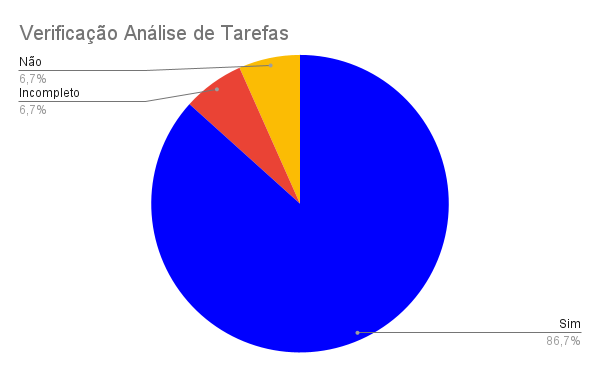
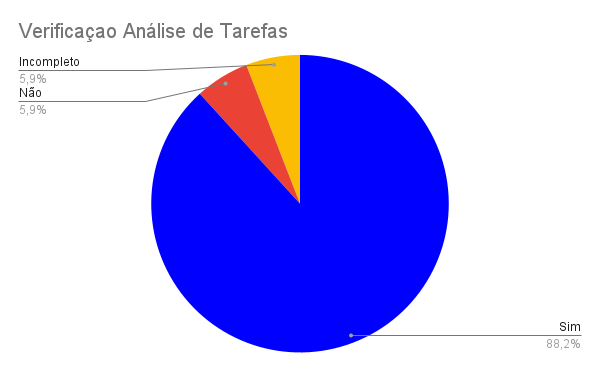
Refactor: Adição de alguns elementos e correção de outros.

diff --git a/docs/Verificacao/OpenStreetMap/Entrega2/analise_tarefas.md b/docs/Verificacao/OpenStreetMap/Entrega2/analise_tarefas.md
@@ -13,7 +13,7 @@ Como método de investigação e produção da verificação, utilizaremos a ins
 Durante as aulas das disciplinas de Interação Humano Computador, ministrada pelo professor André Barros, existiu uma atividade de se realizar a verificação dos artefatos de outro grupo, onde o grupo 3 ([Banco Central](https://interacao-humano-computador.github.io/2023.1-BancoCentral/#/)) fez a verificação dos artefatos do grupo 04, onde essa verificação será levada em conta, onde será considerado se algum ponto mencionado faz sentido está presente no checklist, sempre levanto em conta a literatura de referência da disciplina.
 
 ## Checklist
-Os checklists foram estabelecidos com base nos critérios da literatura o livro interação humano computador[4] e os pontos apontados pelo grupo 3, do [Banco Central](https://interacao-humano-computador.github.io/2023.1-BancoCentral/#/), contendo também algumas perguntas básicas para avaliar a padronização, todas sendo presentes na tabela 1 já preenchida.
+Os checklists foram estabelecidos com base nos critérios da literatura o livro interação humano computador[4] e os pontos apontados pelo grupo 3, do [Banco Central](https://interacao-humano-computador.github.io/2023.1-BancoCentral/#/), contendo também algumas perguntas básicas para avaliar a padronização, sendo apresentados na tabela 1 as questões mais gerais, e na tabela 2 e 3 questões específicas dos métodos escolhidos, todas já devidamente preenchidas.
 
 <center>
 
@@ -23,45 +23,99 @@ Os checklists foram estabelecidos com base nos critérios da literatura o livro 
 | 2 | Todas as bibliografias/referências bibliográficas são utilizadas de forma correta? | Sim ||
 | 3 | Todas as tabelas e figuras são chamadas no texto, possuem legendas e fontes? | Sim ||
 | 4 | A metodologia está de acordo com o artefato analisado? | Sim ||
-| 5 | Existe um documento sobre a análise de tarefas? | Sim ||
-| 6 | Ele conta com mais de uma maneira de realizar a análise? | Sim ||
-| 7 | Cada maneira está devidamente representada? | Sim ||
-| 8 | Cada maneira é explicada como funciona? | Sim ||
-| 9 | É explicado o processo de produção dessas análises? | Sim ||
-| 10 | As tarefas analisadas correspondem as tarefas principais do usuário? | Sim ||
-| 11 | Foram definidas essas tarefas com base nas que foram apresentadas no perfil de usuário? | Incompleto | Há tarefas baseadas nos cenários. |
-| 12 | Todas as tarefas possuem um objetivo? | Sim ||
-| 13 | É detalhado o processo da tarefa? | Sim ||
-| 14 | As tarefas possuem objetivo, plano e operação? | Sim ||
-| 15 | É demostrado como as tarefas serão usadas no projeto? | Não ||
+| 5 | As tarefas analisadas correspondem as tarefas principais do usuário?<a href="#1">¹</a> | Sim ||
+| 6 | Todas as tarefas possuem um objetivo?<a href="#2">²</a> | Sim ||
+| 7 | É detalhado o processo da tarefa?<a href="#3">³</a> | Sim ||
+| 8 | É demostrado como essa análise sera útil para o desenvolvimento do projeto? | Não ||
 
-<p>Tabela 1 - Checklist da Análise de Tarefas. (Fonte: Autor)</p>
+<p>Tabela 1 - Checklist da Análise de Tarefas Geral. (Fonte: Autor)</p>
 
 </center>
 
+<div id="1"></div> 
+¹ - Aquelas que eles mais realizam apresentadas no perfíl de usuário.
+<div id="2"></div> 
+² - Algo a ser alcançado com sua execução.
+<div id="3"></div> 
+³ - Todas as partes que envolver alcançar o objetivo.
+
+<center>
+
+| ID | Descrição | Avaliação | Observação |
+|:--:|---|:-:|---|
+| 9 | Existe o diagrama visual representando a tarefa, tendo os elementos corretamente identificados como demostrado na <a href="#4">figura 1</a>? | Sim ||
+| 10 | O plano para a realização dessa tarefa apresenta todos os subobjetivos necessários para alcançá-la? | Sim ||
+| 11 | O plano apresenta a ordem correta de como os subobjetivos devem ser alcançados?<a href="#5">⁴</a> | Sim ||
+| 12 | Existe a representação das relações entre os subobjetivos que compõem o plano demostrado na <a href="#4">figura 1</a>? | Sim ||
+| 13 | Estão presentes as operações para alcançar os subobjetivos?<a href="#6">⁵</a> | Sim ||
+
+<p>Tabela 2 - Checklist da Análise Hierárquica de Tarefas. (Fonte: Autor)</p>
+
+</center>
+
+<div id="4"></div>
+
+<center>
+
+![](../assets/img/HTA.png)
+
+Figura 1 - Elementos da Análise Hierárquica de Tarefas. (Fonte: Livro Interação Humano Computador[1]())
+
+
+</center>
+
+<div id="5"></div>
+⁴ - A ordem a qual a tarefa é realmente executada.
+<div id="6"></div> 
+⁵ - São circunstâncias de ativação do objetivo (input ou entrada), atividades ou ações (actions) para alcançá-lo e condições que indicam seu atingimento (feedback).
+
+<center>
+
+| ID | Descrição | Avaliação | Observação |
+|:--:|---|:-:|---|
+| 14 | O GMOS apresenta os elementos descritos no Livro Interação Humano Computador[4]()?<a href="#7">⁶</a> | Incompleto | Alguns elementos não são observados no GMOS |
+| 15 | É apresentado uma ordem sequencial?<a href="#8">⁷</a> | Sim ||
+| 16 | Existem os Objetivos e Subobjetivos? | Sim ||
+| 17 | Os operadores fazem sentido?<a href="#7">⁶</a>| Sim ||
+
+<p>Tabela 3 - CMN - GOMS. (Fonte: Autor)</p>
+
+</center>
+
+<div id="7"></div>
+⁶ - São eles:
+
+* Objetivos: O que o usuário quer realizar com o software.
+* Operadores: Ações concretas que o software permite que o usuário faça.
+* Métodos: Sequências de subobjetivos e operadores que permitem atingir um objetivo maior.
+* Regras de Seleção: Quando há mais de um método deve se ter regras de seleção, que são as tomadas de decisão do usuário sobre qual método utilizar em cada situação.
+
+<div id="8"></div>
+⁷ - Sua elaboração está em uma ordem que faz sentido para a realização da tarefa.
+
 ## Gráfico
-Com base no checklist feito no processo de inspeção da Análise de Tarefas, foi produzido o gráfico de avaliação do artefato, que pode ser visualizado/analisado na Figura 1.
+Com base no checklist feito no processo de inspeção da Análise de Tarefas, foi produzido o gráfico de avaliação do artefato, que pode ser visualizado/analisado na Figura 2.
 
 <center>
 
 ![](../assets/img/grafico_analise.png)
 
-Figura 1 - Gráfico Análise de Tarefas. (Fonte: Autor)
+Figura 2 - Gráfico Análise de Tarefas. (Fonte: Autor)
 
 </center>
 
 ## Correções
-O planejamento e a situação da correção dos artefatos da Análise de Tarefas será registrado na Tabela 2.
+O planejamento e a situação da correção dos artefatos da Análise de Tarefas será registrado na Tabela 4.
 
 <center>
 
 | ID | Descrição resumida| Detalhes da correção| Responsável pela correção | Revisor | Status |
 |:--:|------|------|:---------:|:---:|:--:|
-| 11 | Para algumas foi baseado nos cenários, o que pode distorcer um pouco as tarefas | Refazer essas tarefas se baseando unicamente no perfil de usuário e em suas tarefas primárias | [Daniel](https://github.com/daniel-de-sousa) | [Guilherme](https://github.com/guilhermekishimoto) | - |
-| 15 | Não é dito como elas serão usadas no projeto | Explicar a sua utilização. | [Daniel](https://github.com/daniel-de-sousa) | [Guilherme](https://github.com/guilhermekishimoto) | OK |
+| 08 | Não é dito como elas serão usadas no projeto | Explicar a sua utilização. | [Daniel](https://github.com/daniel-de-sousa) | [Guilherme](https://github.com/guilhermekishimoto) | OK |
+| 08 | O GMOS não apresenta todos os elementos | Refazer as tarefas com GMOS | [Raquel](https://github.com/raqueleucaria) | [Daniel](https://github.com/daniel-de-sousa) | - |
 
 
-<p>Tabela 2 - Distribuição da Correção do Artefato (Fonte: Autor)</p>
+<p>Tabela 4 - Distribuição da Correção do Artefato (Fonte: Autor)</p>
 </center>
 
 
@@ -70,9 +124,9 @@ Depois das correções se foi verificado novamente, e o resultado pode ser visto
 
 <center>
 
-![](../assets/img/grafico_analise_correcao.png)
+![](../assets/img/grafico_analise_corre.png)
 
-<p>Figura 2 - Gráfico da Análise de Tarefas com Correções. (Fonte: Autor)</p>
+<p>Figura 3 - Gráfico da Análise de Tarefas com Correções. (Fonte: Autor)</p>
 
 </center>
 
@@ -100,3 +154,4 @@ Depois das correções se foi verificado novamente, e o resultado pode ser visto
 |    Data    | Data Prevista de Revisão | Versão |      Descrição       |                                 Autor                                  |               Revisor               |
 | :--------: | :----------------------: | :----: | :------------------: | :--------------------------------------------------------------------: | :---------------------------------: |
 | 19/06/2023 |        19/06/2023        |  1.0   | Criação do documento |  [Daniel](https://github.com/daniel-de-sousa) | [Guilherme](https://github.com/guilhermekishimoto)  |
+| 05/07/2023 |        05/07/2023        |  1.1   | Ajustes no documento |  [Daniel](https://github.com/daniel-de-sousa) | [Guilherme](https://github.com/guilhermekishimoto)  |
